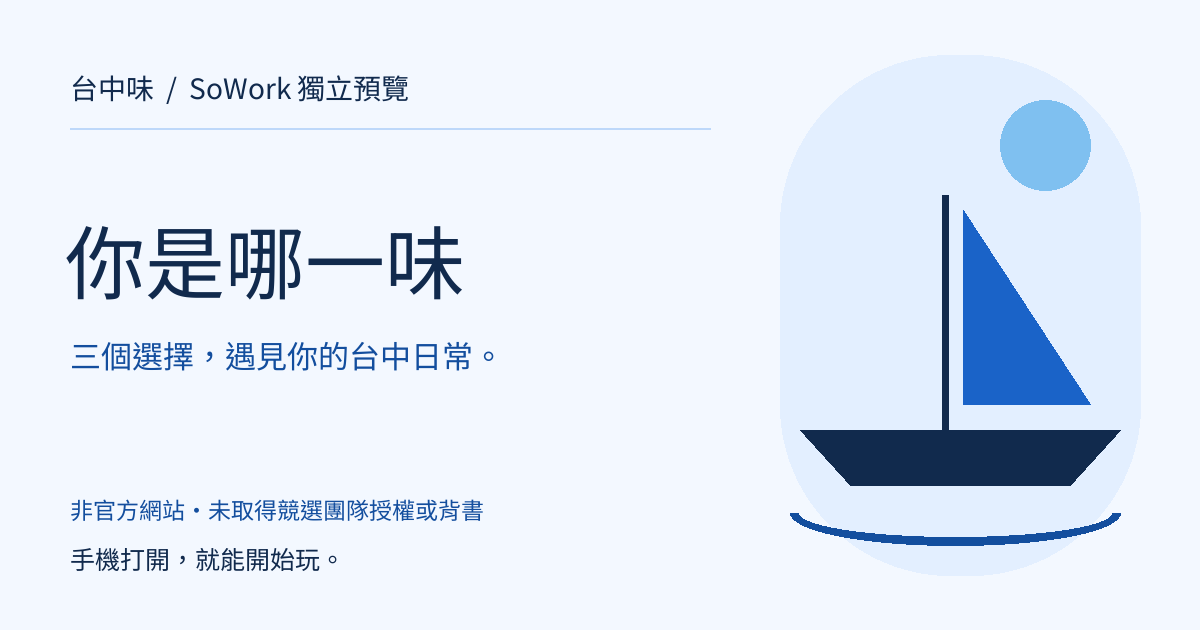
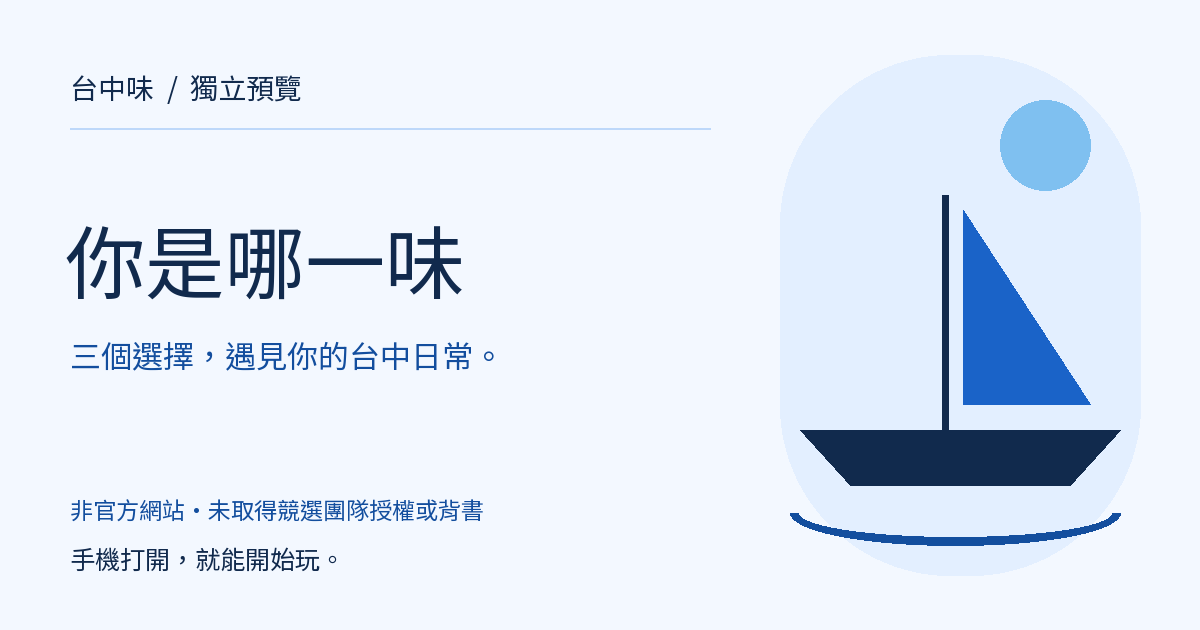
Remove SoWork brand text from visible copy and OG images
Claude-Session: https://claude.ai/code/session_01BKVAjT71Q3VfbaD47As7CP

diff --git a/platform/apps/hub/app/privacy/page.tsx b/platform/apps/hub/app/privacy/page.tsx
@@ -1,2 +1,2 @@
 import { AppShell } from '@taichung/ui';
-export default function Privacy(){return <AppShell title="隱私權聲明" eyebrow="你的日常，只留在你的裝置。"><article className="privacy-copy"><h1>隱私權聲明</h1><p>本頁適用於 SoWork 獨立互動預覽的入口站、沾福氣、你是哪一味、巷口四格漫畫、對開支票本及台中聲音明信片，非官方網站，尚未取得競選團隊授權或背書。</p><h2>你輸入的資料</h2><p>暱稱為選填，只在目前瀏覽器頁面記憶體中使用；測驗選項及計分也只在裝置上運算。這些文字與作答不會送往伺服器、AI 服務或其他網站，重新整理即清除。</p><h2>圖卡與分享</h2><p>圖卡由裝置產生，可下載成 PNG，不上傳或建立公開圖卡網址。一般分享連結只包含體驗網址；聲音明信片另可包含最多三個公開區碼與整數音量，讓收件人手動播放相同混音。網址不含暱稱、心願、漫畫文字或明信片留言；PNG 圖卡可能包含你自行填寫的文字，請分享前自行確認。</p><h2>網站連線</h2><p>瀏覽器會讀取本站程式、站點清單、字型及操作後載入的合成聲景檔案。合成聲景不是台中現場錄音，本站不請求麥克風權限。本站程式不設 Cookie、會員、持續儲存、裝置識別碼或統計追蹤，也不索取 LINE 使用者資料。託管與傳輸供應商可能依自身規範處理必要連線資訊，不能將本頁視為「網路上不會留下任何紀錄」的保證。</p><h2>外部網站與功能界線</h2><p>官網連結會開啟第三方網站，適用該網站的隱私規範。漫畫採預製故事與原創線稿；支票採本機關鍵字對照，不是 AI 語意判讀。未啟用 AI、LIFF 群組分享、圖卡暫存或跨站統計。</p><h2>請勿輸入敏感資料</h2><p>暱稱請勿使用電話、地址、身分證字號或其他敏感個資。若裝置或瀏覽器自行保留下載檔案、剪貼簿與瀏覽紀錄，請由裝置端管理。</p><p>版本：獨立預覽 v0.1。正式上線前仍需完成人工文案審核、授權確認及實機驗收。</p></article></AppShell>}
+export default function Privacy(){return <AppShell title="隱私權聲明" eyebrow="你的日常，只留在你的裝置。"><article className="privacy-copy"><h1>隱私權聲明</h1><p>本頁適用於 獨立互動預覽的入口站、沾福氣、你是哪一味、巷口四格漫畫、對開支票本及台中聲音明信片，非官方網站，尚未取得競選團隊授權或背書。</p><h2>你輸入的資料</h2><p>暱稱為選填，只在目前瀏覽器頁面記憶體中使用；測驗選項及計分也只在裝置上運算。這些文字與作答不會送往伺服器、AI 服務或其他網站，重新整理即清除。</p><h2>圖卡與分享</h2><p>圖卡由裝置產生，可下載成 PNG，不上傳或建立公開圖卡網址。一般分享連結只包含體驗網址；聲音明信片另可包含最多三個公開區碼與整數音量，讓收件人手動播放相同混音。網址不含暱稱、心願、漫畫文字或明信片留言；PNG 圖卡可能包含你自行填寫的文字，請分享前自行確認。</p><h2>網站連線</h2><p>瀏覽器會讀取本站程式、站點清單、字型及操作後載入的合成聲景檔案。合成聲景不是台中現場錄音，本站不請求麥克風權限。本站程式不設 Cookie、會員、持續儲存、裝置識別碼或統計追蹤，也不索取 LINE 使用者資料。託管與傳輸供應商可能依自身規範處理必要連線資訊，不能將本頁視為「網路上不會留下任何紀錄」的保證。</p><h2>外部網站與功能界線</h2><p>官網連結會開啟第三方網站，適用該網站的隱私規範。漫畫採預製故事與原創線稿；支票採本機關鍵字對照，不是 AI 語意判讀。未啟用 AI、LIFF 群組分享、圖卡暫存或跨站統計。</p><h2>請勿輸入敏感資料</h2><p>暱稱請勿使用電話、地址、身分證字號或其他敏感個資。若裝置或瀏覽器自行保留下載檔案、剪貼簿與瀏覽紀錄，請由裝置端管理。</p><p>版本：獨立預覽 v0.1。正式上線前仍需完成人工文案審核、授權確認及實機驗收。</p></article></AppShell>}

diff --git a/platform/packages/ui/src/studio.tsx b/platform/packages/ui/src/studio.tsx
@@ -19,7 +19,7 @@ export function StudioShell({id, kicker, title, description, children}: {id:stri
     <a href="#studio-main" className="skip-link">跳到主要內容</a>
     <header className="studio-header"><a className="studio-brand" href="/" aria-label="台中味互動首頁"><span className="studio-brand-square">味</span><span>台中味<span className="studio-brand-caption">TAICHUNG WAY</span></span></a><nav aria-label="互動主選單">{studios.map(item => <a key={item.id} href={`/${item.id}/`} aria-current={id === item.id ? 'page' : undefined}>{item.title}</a>)}</nav><button type="button" className="studio-type" aria-pressed={large} onClick={() => setLarge(!large)}>Aa<span>大字模式</span></button></header>
     <main className="studio-main" id="studio-main" tabIndex={-1}><div className="studio-breadcrumb"><a href="/">互動首頁</a><span aria-hidden="true">／</span><span>{title}</span></div><section className="studio-intro"><p className="studio-kicker">{kicker}</p><h1 aria-label={title}><b className="gk-3d" data-text={title} aria-hidden="true" style={{ ['--s' as string]: `${Math.max(34, Math.min(58, Math.floor(300 / Array.from(title).length)))}px` }}><span>{title}</span></b><span className="studio-title-period" aria-hidden="true">。</span></h1><p className="studio-description">{description}</p></section>{children}</main>
-    <footer className="studio-footer"><div className="studio-footer-top"><a href="/" className="studio-footer-brand">台中味<span>日常，是認識城市的開始。</span></a><nav aria-label="更多台中味"><a href="/fortune/">沾福氣 ↗</a><a href="/flavor/">你是哪一味 ↗</a><a href="https://taichungway.tw/future" target="_blank" rel="noopener noreferrer">官網政見來源 ↗</a><a href="/privacy/">隱私權聲明</a></nav></div><div className="studio-footer-bottom"><p>SoWork 獨立製作，非官方網站；未取得競選團隊授權或背書。</p><p>本版本不使用 AI、不設 Cookie、不追蹤；輸入僅在此頁暫存。分享網址不包含私人文字。</p></div></footer>
+    <footer className="studio-footer"><div className="studio-footer-top"><a href="/" className="studio-footer-brand">台中味<span>日常，是認識城市的開始。</span></a><nav aria-label="更多台中味"><a href="/fortune/">沾福氣 ↗</a><a href="/flavor/">你是哪一味 ↗</a><a href="https://taichungway.tw/future" target="_blank" rel="noopener noreferrer">官網政見來源 ↗</a><a href="/privacy/">隱私權聲明</a></nav></div><div className="studio-footer-bottom"><p>獨立製作，非官方網站；未取得競選團隊授權或背書。</p><p>本版本不使用 AI、不設 Cookie、不追蹤；輸入僅在此頁暫存。分享網址不包含私人文字。</p></div></footer>
   </div>;
 }
 export function PolicySource({policyId}: {policyId:string}) {

diff --git a/platform/packages/share-card/src/index.ts b/platform/packages/share-card/src/index.ts
@@ -50,7 +50,7 @@ function policyTree(input:CardInput,policy:PolicyMission,bg:string,ink:string,ac
    h('span',{style:{fontSize:24,color:'#134E9E'}},'江啟臣政見'),
    h('span',{style:{fontSize:38,lineHeight:1.35,marginTop:12}},policy.title)),
   box({marginTop:'auto',paddingTop:22,borderTop:`2px solid ${accent}`,flexDirection:'column',fontSize:22,lineHeight:1.6,flexShrink:0},
-   h('span',{},'政策原文來源：taichungway.tw/future'),h('span',{},'SoWork 獨立預覽・非官方互動')));
+   h('span',{},'政策原文來源：taichungway.tw/future'),h('span',{},'獨立預覽・非官方互動')));
 }
 const escapeXml=(text:string)=>text.replace(/[&<>"']/g,char=>({'&':'&amp;','<':'&lt;','>':'&gt;','"':'&quot;',"'":'&apos;'}[char]!));
 export async function renderCardSvg(raw:CardInput,font:ArrayBuffer):Promise<string> {
@@ -67,7 +67,7 @@ export async function renderCardSvg(raw:CardInput,font:ArrayBuffer):Promise<stri
   box({fontSize:48,lineHeight:1.65,textAlign:'center',justifyContent:'center',marginTop:38,padding:'0 24px'},input.body),
   box({fontSize:30,justifyContent:'center',marginTop:32},input.nickname?`給 ${input.nickname}`:'把喜歡，留給今天的自己。'),
   box({marginTop:'auto',paddingTop:28,borderTop:`2px solid ${accent}`,flexDirection:'column',fontSize:24,lineHeight:1.7},
-   h('span',{},'原創互動預覽・本卡未使用 AI'),h('span',{},'官網參考：taichungway.tw'),h('span',{},'SoWork 獨立預覽・非官方互動')));
+   h('span',{},'原創互動預覽・本卡未使用 AI'),h('span',{},'官網參考：taichungway.tw'),h('span',{},'獨立預覽・非官方互動')));
  const svg=await satori(tree,{width:1080,height:1350,fonts:[{name:'LocalSansTC',data:font,weight:400,style:'normal'}]});
  return policy?svg.replace(/(<svg[^>]*>)/,`$1<title>${escapeXml(`${policy.title}；江啟臣政見；來源：${policy.sourceUrl}`)}</title>`):svg;
 }

diff --git a/platform/apps/hub/app/postcard/postcard-studio.tsx b/platform/apps/hub/app/postcard/postcard-studio.tsx
@@ -194,7 +194,7 @@ export default function PostcardStudio({ receiver = false }: { receiver?: boolea
             <PolicySource policyId="RES-08" />
           </div>
           <div className="postcard-art-link"><strong>圖卡不含音訊；請另分享聆聽連結</strong>{shareUrl ? <span>{shareUrl}</span> : <span>選好聲景後，這裡會附上只含配方的聆聽網址。</span>}</div>
-          <p className="postcard-art-footer">SoWork 獨立互動預覽・非官方・未獲授權或背書</p>
+          <p className="postcard-art-footer">獨立互動預覽・非官方・未獲授權或背書</p>
         </div>
         <StudioActions targetRef={artwork} fileName="taichung-sound-postcard" title="台中聲音明信片｜合成聲景示意・非在地實錄" shareUrl={shareUrl} />
         <details className="postcard-credits postcard-help"><summary>說明</summary><p className="studio-muted">PNG 是靜態圖卡，無法播放聲音。分享聆聽連結只包含行政區與音量，不含留言或暱稱。</p><p>6 段原創合成 WAV 循環，無 AI、無人聲，未使用任何在地實錄。選區是編輯配樂，不是聲音地圖。所有人看見相同目錄，不推論政治傾向。無麥克風權限；互動本身不需外部音訊服務。</p><p>播放引擎：Howler.js 2.2.4（MIT，Goldfire Studios）。靜態音檔從本站載入。隱藏分頁或離開頁面會停止並釋放音訊。</p></details>

diff --git a/platform/tests/ui-contract.test.ts b/platform/tests/ui-contract.test.ts
@@ -119,7 +119,7 @@ test('actual initial React markup includes five disabled-until-validated cards a
   assert.doesNotMatch(hubHtml, /href="(?:\/fortune\/|\/flavor\/)"/, 'initial state cannot assert stale availability');
   for (const Page of [fortune, flavor]) {
     const html = renderToStaticMarkup(createElement(Page));
-    assert.match(html, /SoWork 獨立互動預覽，非官方網站；尚未取得競選團隊授權或背書。/);
+    assert.match(html, /獨立互動預覽，非官方網站；尚未取得競選團隊授權或背書。/);
     assert.match(html, /aria-pressed="false"/);
     assert.doesNotMatch(html, /id="result-card"/);
   }
@@ -134,7 +134,7 @@ test('all three independent apps use the shared shell, styles, language and indi
   assert.match(shell, /export function AppShell/);
   assert.match(shell, /大字模式/);
   assert.match(shell, /aria-pressed/);
-  assert.match(shell, /SoWork 獨立互動預覽，非官方網站；尚未取得競選團隊授權或背書。/);
+  assert.match(shell, /獨立互動預覽，非官方網站；尚未取得競選團隊授權或背書。/);
   assert.match(shell, /https:\/\/taichungway.tw\//);
   assert.match(shell, /href="\/privacy\/"/);
   assert.match(shell, /href="\/"/);

diff --git a/platform/apps/hub/app/comic/layout.tsx b/platform/apps/hub/app/comic/layout.tsx
@@ -6,7 +6,7 @@ import './comic-game.css';
 export const metadata: Metadata = {
   metadataBase: new URL('https://taichungway.sowork.ai'),
   title: '巷口四格漫畫｜台中味・非官方互動',
-  description: '選一個日常場景，留下一句原文，創作自己的藍色四格。預製故事版，不使用 AI；SoWork 獨立製作，未取得競選團隊授權或背書。',
+  description: '選一個日常場景，留下一句原文，創作自己的藍色四格。預製故事版，不使用 AI；獨立製作，未取得競選團隊授權或背書。',
   alternates: { canonical: '/comic/' },
   openGraph: {
     title: '巷口四格漫畫｜台中味',

diff --git a/platform/apps/hub/app/comic/comic-artwork.tsx b/platform/apps/hub/app/comic/comic-artwork.tsx
@@ -18,6 +18,6 @@ export function ComicArtwork({ story, sample = false }: { story: ComicStory; sam
     </figure>)}</div>
     <div className="comic-colophon"><p>預製故事版・不使用 AI</p><p>原創虛構人物與情節；原文不會變成角色對白。</p></div>
     <PolicySource policyId={story.policyId} />
-    <footer className="comic-page-footer"><span>台中味 / SoWork 獨立製作</span><span>每一天，都有值得記住的一格。</span></footer>
+    <footer className="comic-page-footer"><span>台中味 / 獨立製作</span><span>每一天，都有值得記住的一格。</span></footer>
   </article>;
 }

diff --git a/platform/scripts/browser-qa.py b/platform/scripts/browser-qa.py
@@ -44,7 +44,7 @@ with sync_playwright() as p:
     page.goto(BASE+route,wait_until='networkidle')
     assert page.evaluate('document.documentElement.scrollWidth<=innerWidth'),(width,route,'overflow')
     assert page.locator('html').get_attribute('lang')=='zh-Hant-TW'
-    assert page.get_by_text('SoWork 獨立互動預覽，非官方網站；尚未取得競選團隊授權或背書。',exact=True).count()==1
+    assert page.get_by_text('獨立互動預覽，非官方網站；尚未取得競選團隊授權或背書。',exact=True).count()==1
     if width==390:page.evaluate("window.scrollTo({top:0,behavior:'instant'})");page.screenshot(path=str(SHOTS/(route.strip('/').replace('/','-')or'hub'))+'.png',full_page=True)
   page.set_viewport_size({'width':390,'height':844})
   return {'widths':[360,390,768],'routes':4}

diff --git a/platform/scripts/prepare-assets.py b/platform/scripts/prepare-assets.py
@@ -22,7 +22,7 @@ for app,title,description in [('hub','日常遊樂場','從市場的早安，到
  else:
   draw.polygon([(800,405),(900,240),(1020,405)],fill='#1A63C8');draw.polygon([(900,425),(1030,275),(1140,425)],fill='#134E9E')
   draw.rectangle((825,390,1030,475),fill='#1A63C8');draw.polygon([(800,388),(840,340),(1010,340),(1050,388)],fill='#112A4D')
- draw.text((70,66),'台中味  /  SoWork 獨立預覽',font=font(28),fill='#112A4D')
+ draw.text((70,66),'台中味  /  獨立預覽',font=font(28),fill='#112A4D')
  draw.line((70,128,710,128),fill='#BDD8FA',width=2)
  draw.text((65,200),title,font=font(80),fill='#112A4D')
  draw.text((70,332),description,font=font(31),fill='#134E9E')

diff --git a/docs/open-source-components.md b/docs/open-source-components.md
@@ -19,4 +19,4 @@ No candidate likeness, signature or voice is generated. No third-party comic art
 - The cheque matcher uses conservative local keyword rules, **not AI semantic classification**. A null result means the local rules did not find a safe match, not that the official 117-policy catalog contains no relevant proposal.
 - The postcard's six ten-second loops are original **synthetic demo soundscapes**, not recordings from Taichung. The 29 districts are a selection interface, not a claimed geographic acoustic survey. Field recordings require separately licensed/authorized source material.
 - PNG cards do not contain playable sound. The listening link carries only public district IDs and integer volumes. Notes and nicknames remain out of URLs.
-- Publication on the requested SoWork domain does not make this an official or authorized campaign website.
+- Publication on the requested domain does not make this an official or authorized campaign website.

diff --git a/platform/README.md b/platform/README.md
@@ -2,7 +2,7 @@
 
 本目錄是 pnpm monorepo，與上層保留的水球遊戲分開。三個 Next.js 靜態 app：hub、fortune、flavor；本輪新增 comic/check/postcard 為 hub 中的獨立路由，共用同源資源與版型，不另開 repo。五個體驗可玩，thanks/machine 仍為 soon。
 
-正式公開網址：`https://taichungway.sowork.ai`。使用 SoWork 網域不表示官方授權；所有頁面保留非官方、未獲授權／背書與政見非成果聲明。
+正式公開網址：`https://taichungway.sowork.ai`。使用此網域不表示官方授權；所有頁面保留非官方、未獲授權／背書與政見非成果聲明。
 
 ## 安裝、驗證、啟動
 
